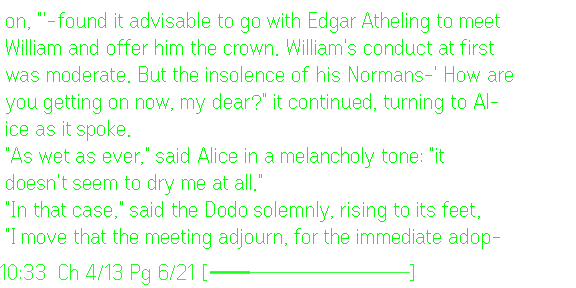
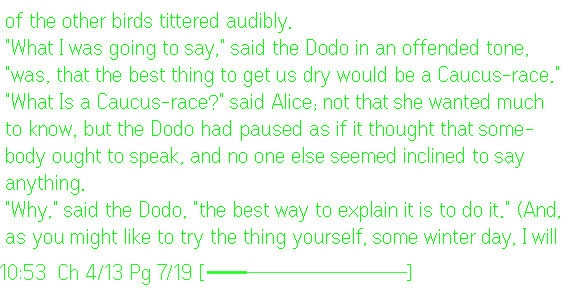
Wrap reading text by pixel width with firmware font metrics
The paginator wrapped at 59 characters, but the G2 font is proportional:
lines ended around 510 of the 564 px text width, hyphenation rarely kicked
in and the right edge looked ragged. Lines are now measured with
@evenrealities/pretext (the firmware's glyph metrics) against 560 px, which
leaves a rounding margin so the firmware never re-wraps a line. On a sample
chapter the median right-edge gap drops from 78 to 20 px and the chapter
needs 19 instead of 21 pages. Saved positions are text offsets, so resume
stays exact. Store screenshots re-captured.

diff --git a/src/paginator.ts b/src/paginator.ts
@@ -1,5 +1,6 @@
 import { config, getTextLayout } from './constants.ts';
 import type Hypher from 'hypher';
+import { getTextWidth, READING_INNER_WIDTH } from './text-metrics.ts';
 
 let hyphenator: Hypher | null = null;
 let wideGlyphs = false;
@@ -9,22 +10,49 @@ export function setHyphenator(h: Hypher): void {
   hyphenator = h;
 }
 
-/** Flag that the book uses a script with wider glyphs (Cyrillic) */
+/**
+ * Flag that the book uses a script with wider glyphs (Cyrillic). Only the
+ * legacy character-count measure uses it; pixel wrapping measures glyphs.
+ */
 export function setWideGlyphs(wide: boolean): void {
   wideGlyphs = wide;
 }
 
+/** How wide a line is, and how wide it may be. */
+export type LineMeasure = { width: (line: string) => number; limit: number };
+
+/**
+ * Widest line we emit, in px. The reading container is 576 px wide with 6 px
+ * padding (564 px of text). The firmware wraps any longer line itself, which
+ * would push a line off the page, so keep a small margin for rounding.
+ */
+export const READING_LINE_LIMIT_PX = READING_INNER_WIDTH - 4;
+
+/** Default: firmware glyph metrics (the G2 font is proportional). */
+export const PIXEL_MEASURE: LineMeasure = { width: getTextWidth, limit: READING_LINE_LIMIT_PX };
+
+function charMeasure(maxChars: number): LineMeasure {
+  return { width: (line) => line.length, limit: maxChars };
+}
+
+function resolveMeasure(measure: number | LineMeasure | undefined): LineMeasure {
+  if (typeof measure === 'number') return charMeasure(measure);
+  return measure ?? PIXEL_MEASURE;
+}
+
 /**
  * Split chapter text into fixed-size pages.
- * Word-wraps at character count + end-of-line hyphenation.
- * When `maxLines` is omitted it's derived from the current text-height crop.
+ * Word-wraps to the measured line width + end-of-line hyphenation.
+ * `measure` is a LineMeasure, or a character count (legacy/tests); default
+ * is pixel-accurate. When `maxLines` is omitted it's derived from the
+ * current text-height crop.
  */
 export function paginateText(
   text: string,
-  maxChars = wideGlyphs ? 48 : 59,
+  measure?: number | LineMeasure,
   maxLines = getTextLayout().maxLines,
 ): string[] {
-  return paginateTextWithOffsets(text, maxChars, maxLines).pages;
+  return paginateTextWithOffsets(text, measure, maxLines).pages;
 }
 
 export interface PaginatedChapter {
@@ -33,24 +61,29 @@ export interface PaginatedChapter {
   pageStarts: number[];
 }
 
-/** Bump when the pagination algorithm/geometry changes meaningfully (plan §5). */
+/**
+ * Bump when the pagination algorithm/geometry changes meaningfully (plan §5).
+ * Saved offsets index the chapter text, not pages, so they stay exact across
+ * re-wrapping (v1.6.0 pixel wrapping kept 1); bump only if offsets change
+ * meaning (e.g. different text extraction).
+ */
 export const PAGINATION_VERSION = 1;
 
 /**
  * paginateText plus per-page source offsets. Offsets let a saved position
- * survive repagination (text-height changes, future pixel-accurate wrapping):
+ * survive repagination (text-height changes, pixel-accurate wrapping):
  * save the page's start offset, restore by finding the page containing it.
  */
 export function paginateTextWithOffsets(
   text: string,
-  maxChars = wideGlyphs ? 48 : 59,
+  measure?: number | LineMeasure,
   maxLines = getTextLayout().maxLines,
 ): PaginatedChapter {
   if (!text || text.trim().length === 0) {
     return { pages: ['(empty)'], pageStarts: [0] };
   }
 
-  const wrapped = wordWrapWithOffsets(text, maxChars);
+  const wrapped = wordWrapWithOffsets(text, resolveMeasure(measure));
 
   const pages: string[] = [];
   const pageStarts: number[] = [];
@@ -64,6 +97,11 @@ export function paginateTextWithOffsets(
   }
 
   return pages.length > 0 ? { pages, pageStarts } : { pages: ['(empty)'], pageStarts: [0] };
+}
+
+/** Legacy character budget (kept for callers that still think in chars). */
+export function defaultMaxChars(): number {
+  return wideGlyphs ? 48 : 59;
 }
 
 /**
@@ -87,7 +125,7 @@ interface WrappedLine {
   start: number;
 }
 
-function wordWrapWithOffsets(text: string, maxChars: number): WrappedLine[] {
+function wordWrapWithOffsets(text: string, measure: LineMeasure): WrappedLine[] {
   const lines: WrappedLine[] = [];
   let cursor = 0;
 
@@ -99,7 +137,7 @@ function wordWrapWithOffsets(text: string, maxChars: number): WrappedLine[] {
       cursor += para.length + 1;
       continue;
     }
-    wrapParagraphWithOffsets(trimmed, maxChars, lines, paraStart);
+    wrapParagraphWithOffsets(trimmed, measure, lines, paraStart);
     cursor += para.length + 1;
   }
 
@@ -108,10 +146,11 @@ function wordWrapWithOffsets(text: string, maxChars: number): WrappedLine[] {
 
 function wrapParagraphWithOffsets(
   text: string,
-  maxChars: number,
+  measure: LineMeasure,
   lines: WrappedLine[],
   paraStart: number,
 ): void {
+  const fits = (line: string) => measure.width(line) <= measure.limit;
   const words = text.split(/( +)/);
   let currentLine = '';
   let currentLineStart = paraStart;
@@ -131,7 +170,7 @@ function wrapParagraphWithOffsets(
 
     const testLine = currentLine.length > 0 ? currentLine + word : word;
 
-    if (testLine.length <= maxChars) {
+    if (fits(testLine)) {
       if (currentLine.length === 0) currentLineStart = cursor;
       currentLine = testLine;
       cursor += word.length;
@@ -140,8 +179,8 @@ function wrapParagraphWithOffsets(
 
     // Word doesn't fit. Try hyphenation on current line.
     if (config.hyphenation && hyphenator && word.length >= 5) {
-      const remaining = maxChars - currentLine.length;
-      const hyphenated = tryHyphenate(word, remaining);
+      const prefix = currentLine;
+      const hyphenated = tryHyphenate(word, (head) => fits(prefix + head + '-'));
       if (hyphenated) {
         if (currentLine.length === 0) currentLineStart = cursor;
         currentLine += hyphenated.head + '-';
@@ -160,13 +199,13 @@ function wrapParagraphWithOffsets(
     }
 
     // If word is longer than a full line, hyphenate across lines
-    if (word.length > maxChars) {
+    if (!fits(word)) {
       let rest = word;
       let restStart = cursor;
       currentLineStart = cursor;
-      while (rest.length > maxChars) {
+      while (!fits(rest)) {
         if (config.hyphenation && hyphenator) {
-          const hyp = tryHyphenate(rest, maxChars);
+          const hyp = tryHyphenate(rest, (head) => fits(head + '-'));
           if (hyp) {
             lines.push({ text: hyp.head + '-', start: restStart });
             rest = hyp.tail;
@@ -175,9 +214,12 @@ function wrapParagraphWithOffsets(
             continue;
           }
         }
-        const slice = rest.slice(0, maxChars - 1);
+        // Hard break: the longest prefix that fits with a trailing '-'.
+        let cut = Math.max(1, rest.length - 1);
+        while (cut > 1 && !fits(rest.slice(0, cut) + '-')) cut--;
+        const slice = rest.slice(0, cut);
         lines.push({ text: slice + '-', start: restStart });
-        rest = rest.slice(maxChars - 1);
+        rest = rest.slice(cut);
         restStart += slice.length;
         currentLineStart = restStart;
       }
@@ -195,13 +237,14 @@ function wrapParagraphWithOffsets(
 }
 
 /**
- * Try to hyphenate a word so the first part + '-' fits in `available` chars.
+ * Try to hyphenate a word at the latest syllable break where `fits(head)`
+ * (the caller appends its own prefix and the '-').
  */
 function tryHyphenate(
   word: string,
-  available: number,
+  fits: (head: string) => boolean,
 ): { head: string; tail: string } | null {
-  if (!hyphenator || available < 3) return null;
+  if (!hyphenator) return null;
 
   // Separate leading letters from trailing punctuation
   const match = word.match(/^([\p{L}\p{M}]+)(.*)/u);
@@ -219,7 +262,7 @@ function tryHyphenate(
 
   for (let i = 0; i < syllables.length - 1; i++) {
     const candidate = head + syllables[i];
-    if (candidate.length + 1 <= available) {
+    if (fits(candidate)) {
       head = candidate;
       bestSplit = i;
     } else {

diff --git a/tests/paginator.test.ts b/tests/paginator.test.ts
@@ -267,3 +267,28 @@ test('flow offset helpers round-trip wordIndex through page text', async () => {
   assert.equal(flowWordForOffset(page, 15), 3, 'offset at word start counts preceding words');
   assert.equal(flowWordForOffset(page, 999), 4);
 });
+
+test('pixel wrapping: lines fill the 564 px text width but never make the firmware re-wrap', async () => {
+  const { paginateText, READING_LINE_LIMIT_PX } = await import('../src/paginator.ts');
+  const { getTextWidth, measureTextWrap } = await import('../src/text-metrics.ts');
+  const para = 'They were indeed a queer-looking party that assembled on the bank, the birds with draggled feathers, the animals with their fur clinging close to them, and all dripping wet, cross, and uncomfortable. The first question of course was, how to get dry again: they had a consultation about this, and after a few minutes it seemed quite natural to Alice to find herself talking familiarly with them, as if she had known them all her life.';
+  const text = Array.from({ length: 6 }, () => para).join('\n');
+  const lines = paginateText(text, undefined, 9).flatMap((p) => p.split('\n')).filter((l) => l.length > 0);
+  for (const line of lines) {
+    assert.ok(getTextWidth(line) <= READING_LINE_LIMIT_PX, `${getTextWidth(line)}px: ${line}`);
+    assert.equal(measureTextWrap(line, 564).lineCount, 1, line);
+  }
+  // Greedy fill: the next word never fits on the previous line.
+  const charLines = paginateText(text, 59, 9).flatMap((p) => p.split('\n')).filter((l) => l.length > 0);
+  assert.ok(lines.length < charLines.length, `pixel ${lines.length} vs chars ${charLines.length} lines`);
+});
+
+test('pixel wrapping: an unbreakable token longer than a line is split to fit', async () => {
+  const { paginateText, READING_LINE_LIMIT_PX } = await import('../src/paginator.ts');
+  const { getTextWidth } = await import('../src/text-metrics.ts');
+  const url = 'https://example.org/' + 'abcdefghij'.repeat(12);
+  const lines = paginateText(`see ${url} here`, undefined, 9).flatMap((p) => p.split('\n'));
+  assert.ok(lines.length >= 3);
+  for (const line of lines) assert.ok(getTextWidth(line) <= READING_LINE_LIMIT_PX, line);
+  assert.equal(lines.join('').replace(/-(?=.)/g, '').includes('abcdefghij'), true);
+});

diff --git a/CHANGELOG.md b/CHANGELOG.md
@@ -36,6 +36,16 @@ All notable changes to this project will be documented in this file.
   for simulator automation and is compiled out of production builds.
 
 ### Changed
+- **Lines now fill the display width.**
+  - Before: the paginator wrapped at a fixed 59 characters, but the G2 font is
+    proportional, so lines ended at about 510 px of the 564 px text area.
+    Hyphenation rarely triggered, and the right edge looked ragged.
+  - Now: lines are wrapped by pixel width with the firmware glyph metrics
+    (`@evenrealities/pretext`), and every line is checked to fit without the
+    firmware re-wrapping it.
+  - Result: the median gap at the right edge of lines within a paragraph drops
+    from 78 px to 20 px, and there are about 10 % fewer pages.
+  - Saved positions are character offsets, so they still resume exactly.
 - **One app name, "ePub Reader"**, in app.json, on the glasses and in the
   companion UI. Before this it was "epub-reader", "G2 ePUB Reader" and
   "ePub Reader".

diff --git a/ARCHITECTURE.md b/ARCHITECTURE.md
@@ -294,7 +294,15 @@ string[]  (one entry per page)
 
 ### 8.1 Paginator
 
-- `maxChars` is 59 for Latin glyphs, 48 for wide Cyrillic glyphs.
+- Lines wrap by **pixel width** (v1.6.0), measured with the firmware glyph
+  metrics from `@evenrealities/pretext` (`PIXEL_MEASURE`). The limit is
+  `READING_LINE_LIMIT_PX` = 560: the 564 px inner width minus a rounding
+  margin, so the firmware never re-wraps a line.
+- Before 1.6.0, wrapping used a fixed 59 characters (48 for Cyrillic). The
+  font is proportional, so those lines ended at about 510 px. That method is
+  still available by passing a character count, which the tests use.
+- Saved positions are character offsets into the chapter text, so a change
+  in wrapping doesn't move them, and `PAGINATION_VERSION` stays 1.
 - `maxLines` comes from `getTextLayout()` — see §9.
 - Hyphenation is language-aware and applies either at end-of-line (preferred
   break inside a word that doesn't fit) or across a single word longer than

diff --git a/README.md b/README.md
@@ -98,7 +98,7 @@ npm run qr:sim
 ## Display Specs
 
 Optimized for the Even G2 display: **576×288 px**, using native text rendering.
-- **Layout**: ~59 characters per line in standard mode, fewer for right-side progress bar or wider Cyrillic glyphs.
+- **Layout**: lines wrap by pixel width using the firmware's own font metrics, so they fill the 564 px text area without the glasses re-wrapping them.
 - **Hyphenation**: English, German, Spanish, French, Dutch, Polish, Portuguese, Russian, Ukrainian.
 
 ## Startup Screen
